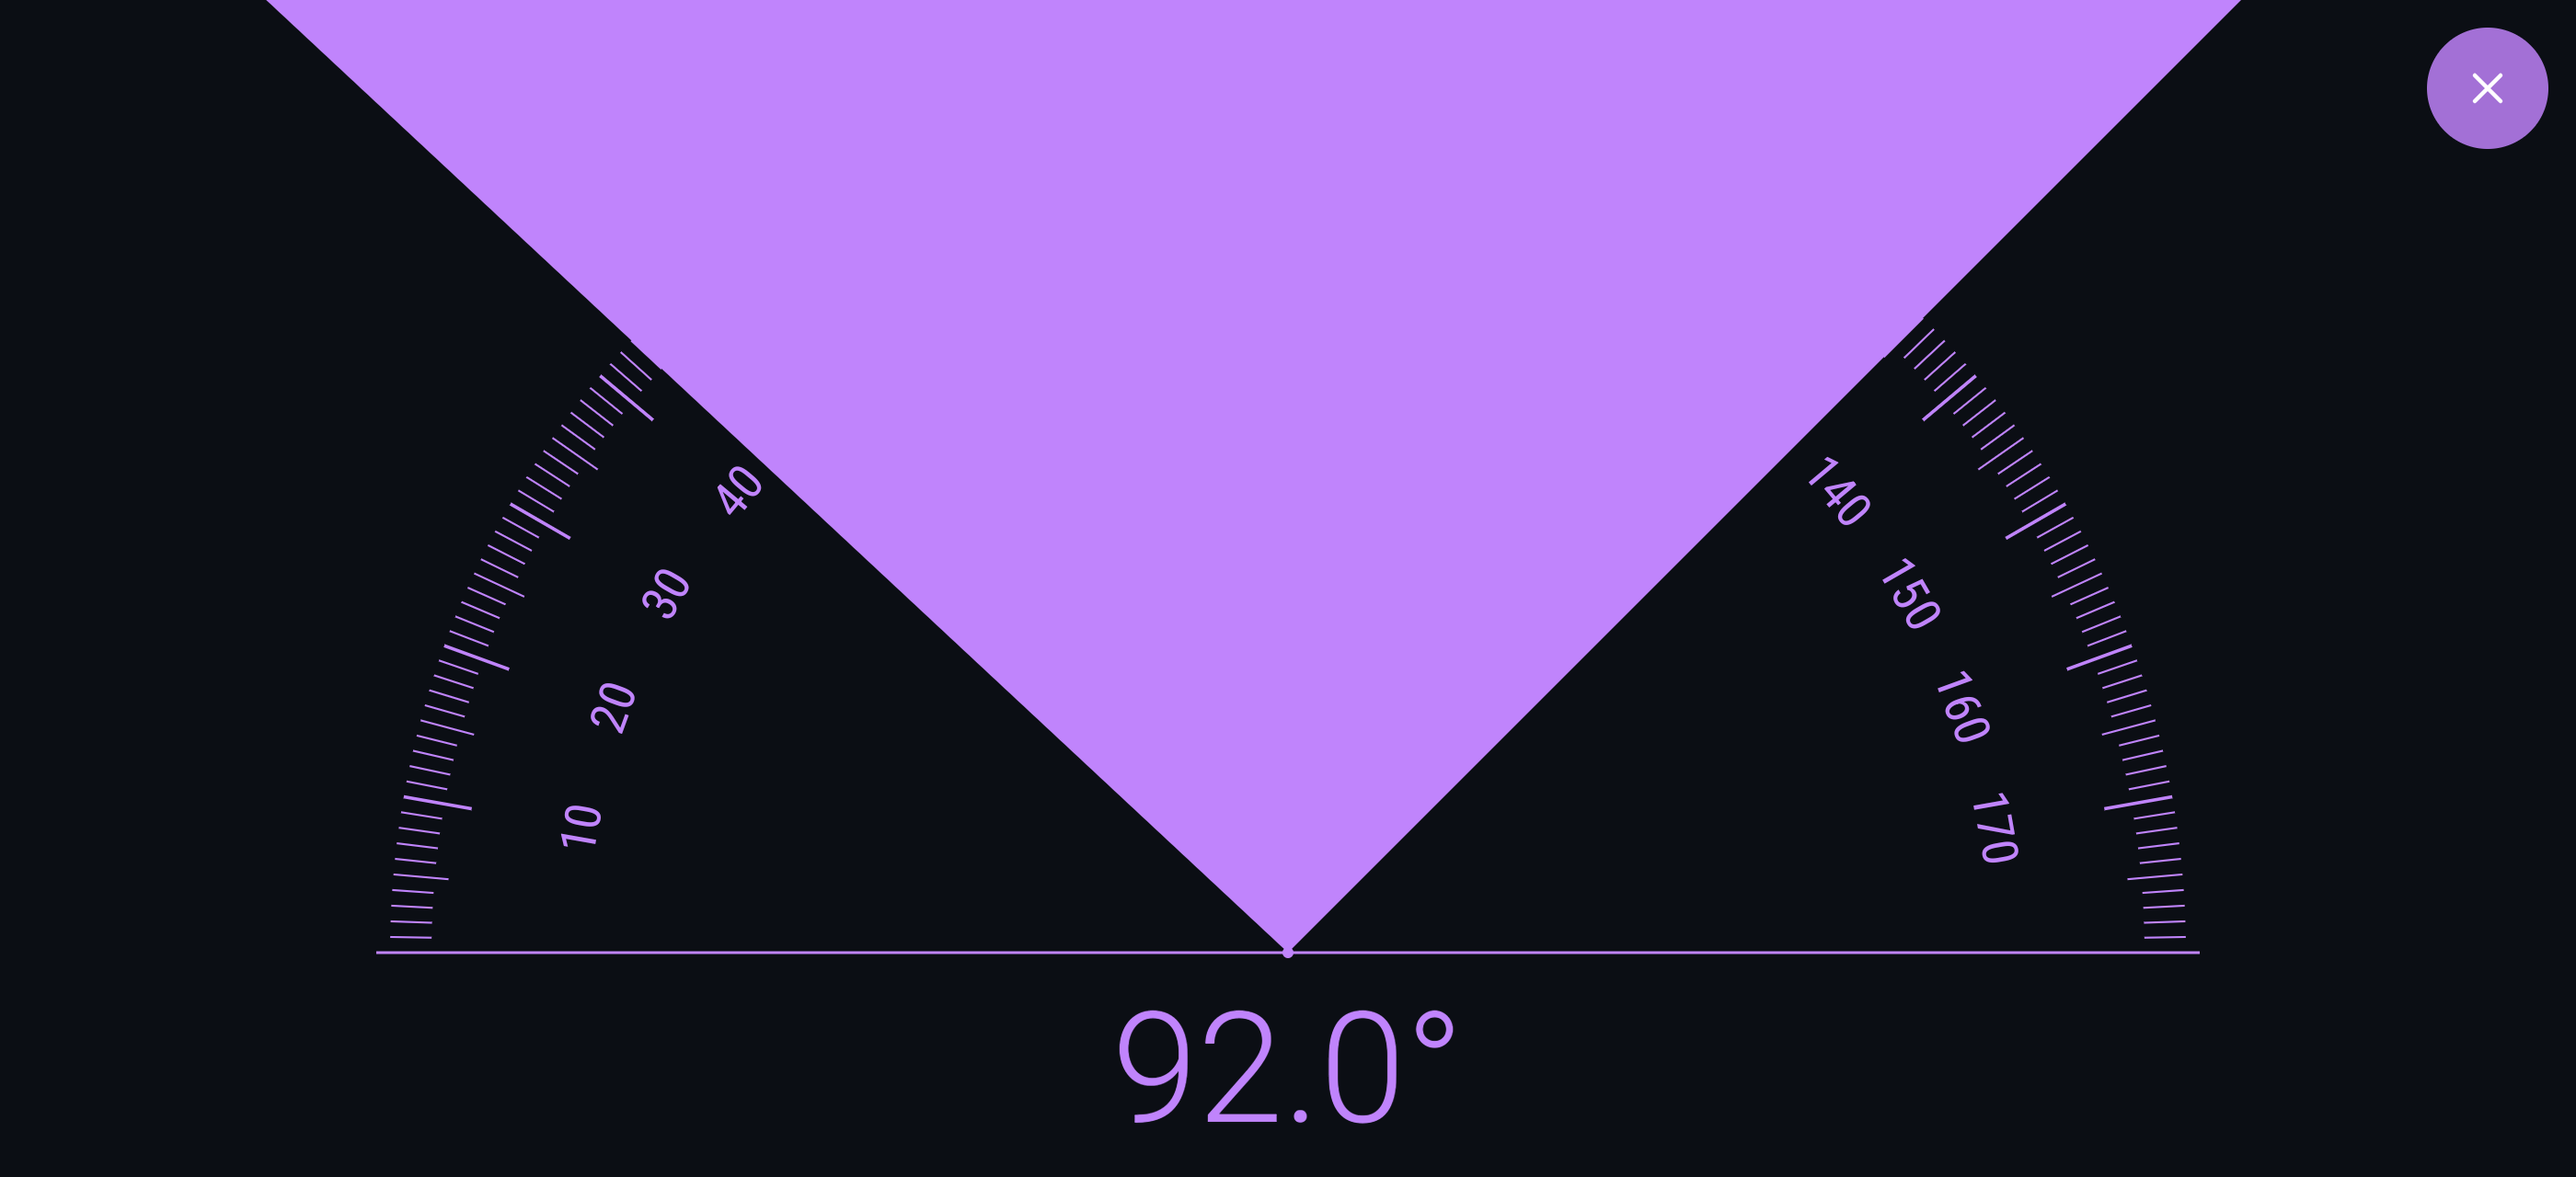
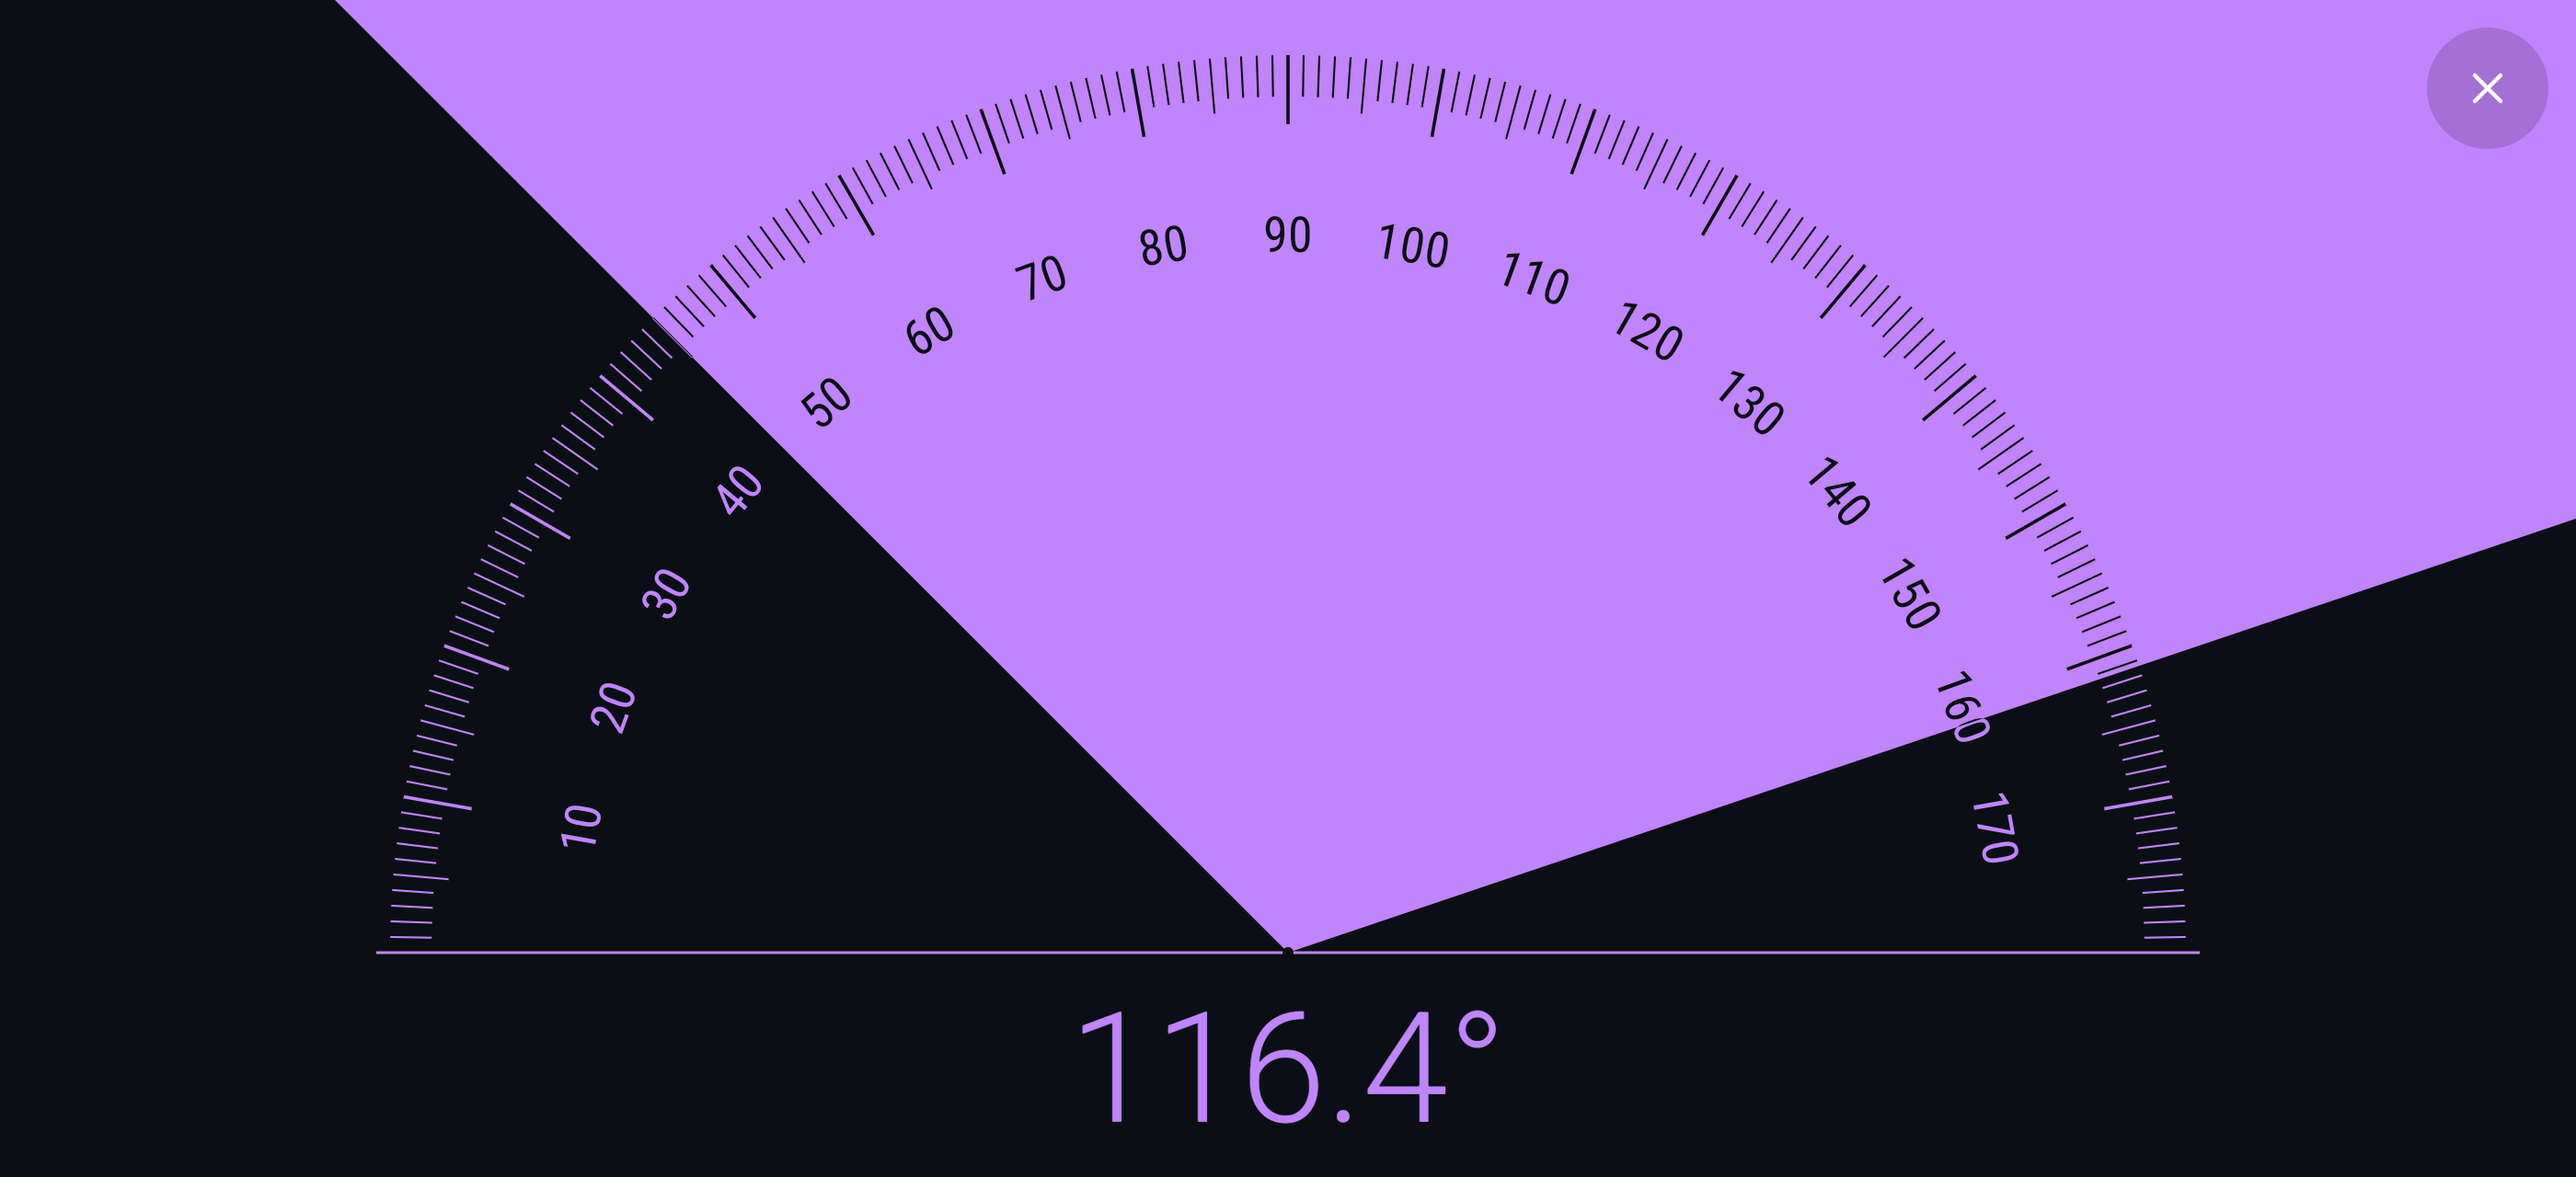
Keep the protractor scale readable inside the filled wedge
The wedge is filled with the tool colour and the scale was drawn in that same
colour, so every tick and label between the two arms disappeared as soon as the
angle grew - at 158 degrees the whole 30..150 part of the scale was gone.

Repaint the covered part of the scale in the canvas colour, the way the ruler
already repaints the ticks inside a measurement rectangle. The wedge and the
canvas are always opposite in lightness in both palettes, so the numbers stay
readable (white on violet in the light theme, near black on the light violet
wedge in the dark theme) and the pivot dot stays visible too.

diff --git a/app/src/main/java/org/openruler/app/view/ProtractorView.kt b/app/src/main/java/org/openruler/app/view/ProtractorView.kt
@@ -126,20 +126,33 @@ class ProtractorView @JvmOverloads constructor(
         if (width == 0 || height == 0) return
         val color = palette.colorOf(MeasureMode.PROTRACTOR)
         wedgePaint.color = color
-        tickPaint.color = color
-        labelPaint.color = color
         anglePaint.color = color
-        dotPaint.color = color
 
         drawWedge(canvas)
-        drawScale(canvas)
+        drawScale(canvas, color)
+
+        // The wedge is filled with the tool colour, so the part of the scale that falls
+        // inside it would be invisible if it kept that colour. Repaint that part in the
+        // canvas colour - the wedge and the canvas are always opposite in lightness - the
+        // same way the ruler repaints the ticks inside the measurement rectangle.
+        val measuring = angle > 0.05f
+        if (measuring) {
+            val saved = canvas.save()
+            canvas.clipPath(wedgePath)
+            drawScale(canvas, palette.background)
+            canvas.restoreToCount(saved)
+        }
 
         tickPaint.strokeWidth = dp(1f)
+        tickPaint.color = color
         canvas.drawLine(
             centerX - tickRadius - gap, centerY,
             centerX + tickRadius + gap, centerY,
             tickPaint
         )
+
+        // The pivot always sits inside the wedge; keep it visible while measuring.
+        dotPaint.color = if (measuring) palette.background else color
         canvas.drawCircle(centerX, centerY, dp(2f), dotPaint)
         canvas.drawText(String.format("%.1f°", angle), centerX, height - inset, anglePaint)
     }
@@ -156,7 +169,9 @@ class ProtractorView @JvmOverloads constructor(
         canvas.drawPath(wedgePath, wedgePaint)
     }
 
-    private fun drawScale(canvas: Canvas) {
+    private fun drawScale(canvas: Canvas, color: Int) {
+        tickPaint.color = color
+        labelPaint.color = color
         for (i in 1 until 180) {
             val saved = canvas.save()
             canvas.rotate(i - 90f, centerX, centerY)

diff --git a/README.md b/README.md
@@ -20,7 +20,7 @@
 | 单点测量 | 一条可拖动的边，测量从屏幕边缘到该边的距离 |
 | 两点测量 | 两条可拖动的边，测量两点之间的距离 |
 | 矩形测量 | 可拖动矩形，实时显示宽、高与面积 |
-| 量角器 | 半圆刻度盘，两根可拖动的针，双指可同时调整夹角 |
+| 量角器 | 半圆刻度盘，两根可拖动的针，双指可同时调整夹角；扇形里的刻度与数字会自动换成底色绘制，不会被填色盖住 |
 | 校准 | 用银行卡长边（85.60 mm）做参照，加减按钮或直接拖动微调，系数实时保存 |
 | 设置 | 屏幕方向、屏幕常亮、深色主题、边缘留白、测量单位 |
 
